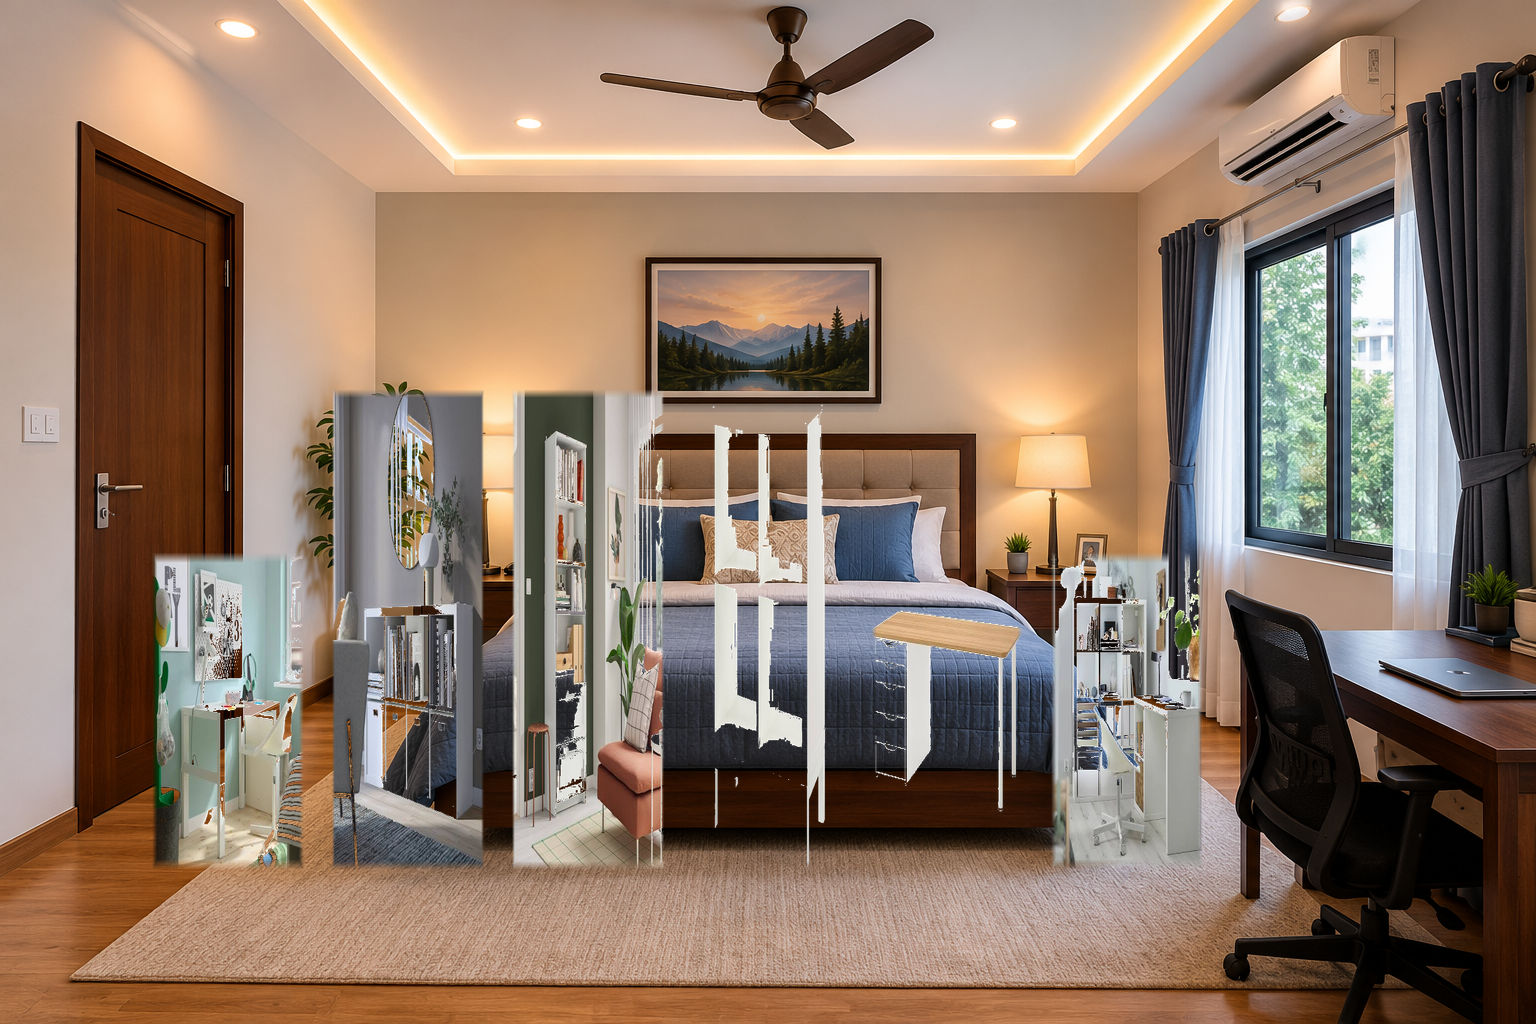
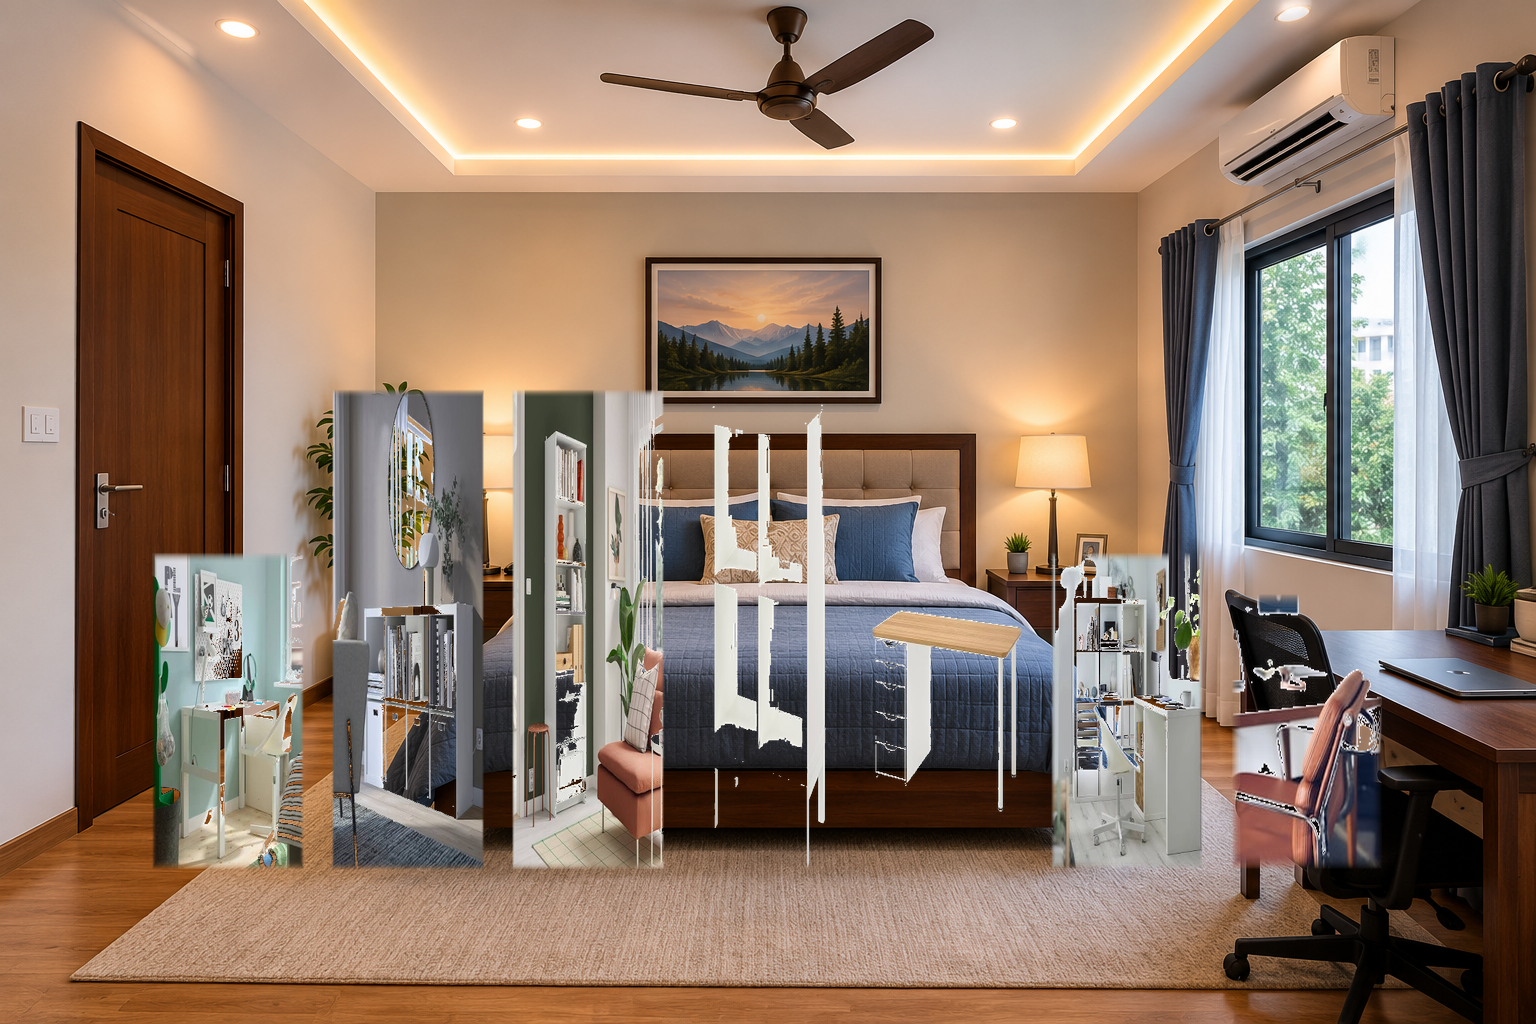
feat: implement hybrid inpaint product compositing and fix direct serpapi redirect fallbacks

diff --git a/agents/commerce_agent.py b/agents/commerce_agent.py
@@ -45,49 +45,57 @@ class CommerceAgent:
         # Mock product catalog for fallback and local searches
         self.mock_catalog = [
             # IKEA (12 products)
-            {"name": "IKEA Micke Desk", "category": "desk", "brand": "IKEA", "price": 6500, "style": "modern", "width_cm": 105, "depth_cm": 50, "quality_score": 0.8},
-            {"name": "IKEA Malm Desk", "category": "desk", "brand": "IKEA", "price": 9999, "style": "modern", "width_cm": 140, "depth_cm": 65, "quality_score": 0.85},
-            {"name": "IKEA Flintan Office Chair", "category": "chair", "brand": "IKEA", "price": 5999, "style": "modern", "width_cm": 70, "depth_cm": 70, "quality_score": 0.75},
-            {"name": "IKEA Markus Ergonomic Chair", "category": "chair", "brand": "IKEA", "price": 14999, "style": "modern", "width_cm": 62, "depth_cm": 60, "quality_score": 0.9},
-            {"name": "IKEA Billy Bookshelf", "category": "bookshelf", "brand": "IKEA", "price": 4500, "style": "modern", "width_cm": 80, "depth_cm": 28, "quality_score": 0.8},
-            {"name": "IKEA Tertial Lamp", "category": "lighting", "brand": "IKEA", "price": 999, "style": "industrial", "width_cm": 15, "depth_cm": 15, "quality_score": 0.75},
-            {"name": "IKEA Kallax Storage Unit", "category": "bookshelf", "brand": "IKEA", "price": 3999, "style": "modern", "width_cm": 77, "depth_cm": 39, "quality_score": 0.8},
-            {"name": "IKEA Lack Side Table", "category": "table", "brand": "IKEA", "price": 899, "style": "modern", "width_cm": 55, "depth_cm": 55, "quality_score": 0.7},
-            {"name": "IKEA Poang Armchair", "category": "chair", "brand": "IKEA", "price": 6999, "style": "scandinavian", "width_cm": 68, "depth_cm": 82, "quality_score": 0.85},
-            {"name": "IKEA Linnmon Work Table", "category": "desk", "brand": "IKEA", "price": 2500, "style": "modern", "width_cm": 100, "depth_cm": 60, "quality_score": 0.75},
-            {"name": "IKEA Alex Drawer Unit", "category": "drawer", "brand": "IKEA", "price": 6500, "style": "modern", "width_cm": 36, "depth_cm": 58, "quality_score": 0.85},
-            {"name": "IKEA Renberget Swivel Chair", "category": "chair", "brand": "IKEA", "price": 4999, "style": "modern", "width_cm": 59, "depth_cm": 65, "quality_score": 0.75},
+            {"name": "IKEA Micke Desk", "category": "desk", "brand": "IKEA", "price": 6500, "style": "modern", "width_cm": 105, "depth_cm": 50, "quality_score": 0.8, "link": "https://www.ikea.com/in/en/p/micke-desk-black-brown-80354274/"},
+            {"name": "IKEA Malm Desk", "category": "desk", "brand": "IKEA", "price": 9999, "style": "modern", "width_cm": 140, "depth_cm": 65, "quality_score": 0.85, "link": "https://www.ikea.com/in/en/p/malm-desk-white-10359824/"},
+            {"name": "IKEA Flintan Office Chair", "category": "chair", "brand": "IKEA", "price": 5999, "style": "modern", "width_cm": 70, "depth_cm": 70, "quality_score": 0.75, "link": "https://www.ikea.com/in/en/p/flintan-office-chair-with-armrests-black-s39434057/"},
+            {"name": "IKEA Markus Ergonomic Chair", "category": "chair", "brand": "IKEA", "price": 14999, "style": "modern", "width_cm": 62, "depth_cm": 60, "quality_score": 0.9, "link": "https://www.ikea.com/in/en/p/markus-office-chair-vissle-dark-grey-50261151/"},
+            {"name": "IKEA Billy Bookshelf", "category": "bookshelf", "brand": "IKEA", "price": 4500, "style": "modern", "width_cm": 80, "depth_cm": 28, "quality_score": 0.8, "link": "https://www.ikea.com/in/en/p/billy-bookcase-white-80351561/"},
+            {"name": "IKEA Tertial Lamp", "category": "lighting", "brand": "IKEA", "price": 999, "style": "industrial", "width_cm": 15, "depth_cm": 15, "quality_score": 0.75, "link": "https://www.ikea.com/in/en/p/tertial-work-lamp-dark-grey-50355721/"},
+            {"name": "IKEA Kallax Storage Unit", "category": "bookshelf", "brand": "IKEA", "price": 3999, "style": "modern", "width_cm": 77, "depth_cm": 39, "quality_score": 0.8, "link": "https://www.ikea.com/in/en/p/kallax-shelving-unit-white-80351882/"},
+            {"name": "IKEA Lack Side Table", "category": "table", "brand": "IKEA", "price": 899, "style": "modern", "width_cm": 55, "depth_cm": 55, "quality_score": 0.7, "link": "https://www.ikea.com/in/en/p/lack-side-table-white-10302064/"},
+            {"name": "IKEA Poang Armchair", "category": "chair", "brand": "IKEA", "price": 6999, "style": "scandinavian", "width_cm": 68, "depth_cm": 82, "quality_score": 0.85, "link": "https://www.ikea.com/in/en/p/poaeng-armchair-glose-black-s99830501/"},
+            {"name": "IKEA Linnmon Work Table", "category": "desk", "brand": "IKEA", "price": 2500, "style": "modern", "width_cm": 100, "depth_cm": 60, "quality_score": 0.75, "link": "https://www.ikea.com/in/en/p/linnmon-table-top-white-60361189/"},
+            {"name": "IKEA Alex Drawer Unit", "category": "drawer", "brand": "IKEA", "price": 6500, "style": "modern", "width_cm": 36, "depth_cm": 58, "quality_score": 0.85, "link": "https://www.ikea.com/in/en/p/alex-drawer-unit-white-40473549/"},
+            {"name": "IKEA Renberget Swivel Chair", "category": "chair", "brand": "IKEA", "price": 4999, "style": "modern", "width_cm": 59, "depth_cm": 65, "quality_score": 0.75, "link": "https://www.ikea.com/in/en/p/renberget-swivel-chair-bomstad-black-20339414/"},
 
             # Urban Ladder (10 products)
-            {"name": "Urban Ladder Study Table", "category": "desk", "brand": "Urban Ladder", "price": 12500, "style": "scandinavian", "width_cm": 120, "depth_cm": 60, "quality_score": 0.9},
-            {"name": "Urban Ladder Engineered Wood Shelf", "category": "bookshelf", "brand": "Urban Ladder", "price": 8999, "style": "modern", "width_cm": 90, "depth_cm": 35, "quality_score": 0.85},
-            {"name": "Urban Ladder Crescent Study Chair", "category": "chair", "brand": "Urban Ladder", "price": 7999, "style": "contemporary", "width_cm": 60, "depth_cm": 60, "quality_score": 0.85},
-            {"name": "Urban Ladder Malabar Bookshelf", "category": "bookshelf", "brand": "Urban Ladder", "price": 14500, "style": "classic", "width_cm": 85, "depth_cm": 30, "quality_score": 0.9},
-            {"name": "Urban Ladder Oki Desk Organizer", "category": "organizer", "brand": "Urban Ladder", "price": 1200, "style": "minimalist", "width_cm": 30, "depth_cm": 20, "quality_score": 0.8},
-            {"name": "Urban Ladder Boston Study Table", "category": "desk", "brand": "Urban Ladder", "price": 18500, "style": "scandinavian", "width_cm": 115, "depth_cm": 60, "quality_score": 0.9},
-            {"name": "Urban Ladder Aeris Desk Chair", "category": "chair", "brand": "Urban Ladder", "price": 11500, "style": "modern", "width_cm": 65, "depth_cm": 65, "quality_score": 0.88},
-            {"name": "Urban Ladder Carson Side Table", "category": "table", "brand": "Urban Ladder", "price": 4500, "style": "contemporary", "width_cm": 45, "depth_cm": 45, "quality_score": 0.82},
-            {"name": "Urban Ladder Flora Table Lamp", "category": "lighting", "brand": "Urban Ladder", "price": 2500, "style": "modern", "width_cm": 22, "depth_cm": 22, "quality_score": 0.85},
-            {"name": "Urban Ladder Stanhope Desk", "category": "desk", "brand": "Urban Ladder", "price": 22000, "style": "scandinavian", "width_cm": 120, "depth_cm": 60, "quality_score": 0.92},
+            {"name": "Urban Ladder Study Table", "category": "desk", "brand": "Urban Ladder", "price": 12500, "style": "scandinavian", "width_cm": 120, "depth_cm": 60, "quality_score": 0.9, "link": "https://www.urbanladder.com/study-tables"},
+            {"name": "Urban Ladder Engineered Wood Shelf", "category": "bookshelf", "brand": "Urban Ladder", "price": 8999, "style": "modern", "width_cm": 90, "depth_cm": 35, "quality_score": 0.85, "link": "https://www.urbanladder.com/bookshelves"},
+            {"name": "Urban Ladder Crescent Study Chair", "category": "chair", "brand": "Urban Ladder", "price": 7999, "style": "contemporary", "width_cm": 60, "depth_cm": 60, "quality_score": 0.85, "link": "https://www.urbanladder.com/study-chairs"},
+            {"name": "Urban Ladder Malabar Bookshelf", "category": "bookshelf", "brand": "Urban Ladder", "price": 14500, "style": "classic", "width_cm": 85, "depth_cm": 30, "quality_score": 0.9, "link": "https://www.urbanladder.com/bookshelves"},
+            {"name": "Urban Ladder Oki Desk Organizer", "category": "organizer", "brand": "Urban Ladder", "price": 1200, "style": "minimalist", "width_cm": 30, "depth_cm": 20, "quality_score": 0.8, "link": "https://www.urbanladder.com/study-table-accessories"},
+            {"name": "Urban Ladder Boston Study Table", "category": "desk", "brand": "Urban Ladder", "price": 18500, "style": "scandinavian", "width_cm": 115, "depth_cm": 60, "quality_score": 0.9, "link": "https://www.urbanladder.com/study-tables"},
+            {"name": "Urban Ladder Aeris Desk Chair", "category": "chair", "brand": "Urban Ladder", "price": 11500, "style": "modern", "width_cm": 65, "depth_cm": 65, "quality_score": 0.88, "link": "https://www.urbanladder.com/study-chairs"},
+            {"name": "Urban Ladder Carson Side Table", "category": "table", "brand": "Urban Ladder", "price": 4500, "style": "contemporary", "width_cm": 45, "depth_cm": 45, "quality_score": 0.82, "link": "https://www.urbanladder.com/side-tables"},
+            {"name": "Urban Ladder Flora Table Lamp", "category": "lighting", "brand": "Urban Ladder", "price": 2500, "style": "modern", "width_cm": 22, "depth_cm": 22, "quality_score": 0.85, "link": "https://www.urbanladder.com/lamps"},
+            {"name": "Urban Ladder Stanhope Desk", "category": "desk", "brand": "Urban Ladder", "price": 22000, "style": "scandinavian", "width_cm": 120, "depth_cm": 60, "quality_score": 0.92, "link": "https://www.urbanladder.com/study-tables"},
 
             # Godrej Interio (10 products)
-            {"name": "Godrej Interio Caliber Desk", "category": "desk", "brand": "Godrej Interio", "price": 8500, "style": "contemporary", "width_cm": 110, "depth_cm": 55, "quality_score": 0.8},
-            {"name": "Godrej Interio Motion Chair", "category": "chair", "brand": "Godrej Interio", "price": 12000, "style": "contemporary", "width_cm": 65, "depth_cm": 65, "quality_score": 0.85},
-            {"name": "Godrej Interio Companion Cabinet", "category": "cabinet", "brand": "Godrej Interio", "price": 9500, "style": "classic", "width_cm": 90, "depth_cm": 45, "quality_score": 0.8},
-            {"name": "Godrej Interio Unwind Chair", "category": "chair", "brand": "Godrej Interio", "price": 4500, "style": "modern", "width_cm": 55, "depth_cm": 55, "quality_score": 0.78},
-            {"name": "Godrej Interio Script Desk", "category": "desk", "brand": "Godrej Interio", "price": 16500, "style": "contemporary", "width_cm": 120, "depth_cm": 60, "quality_score": 0.88},
-            {"name": "Godrej Interio Premier Table", "category": "desk", "brand": "Godrej Interio", "price": 10500, "style": "classic", "width_cm": 115, "depth_cm": 60, "quality_score": 0.82},
-            {"name": "Godrej Interio Slimline Wardrobe", "category": "wardrobe", "brand": "Godrej Interio", "price": 21000, "style": "classic", "width_cm": 90, "depth_cm": 50, "quality_score": 0.85},
-            {"name": "Godrej Interio Versatile Shelf", "category": "bookshelf", "brand": "Godrej Interio", "price": 7500, "style": "modern", "width_cm": 80, "depth_cm": 30, "quality_score": 0.8},
-            {"name": "Godrej Interio Accent Lamp", "category": "lighting", "brand": "Godrej Interio", "price": 3000, "style": "contemporary", "width_cm": 25, "depth_cm": 25, "quality_score": 0.82},
-            {"name": "Godrej Interio Work Desk Combo", "category": "desk", "brand": "Godrej Interio", "price": 19999, "style": "contemporary", "width_cm": 120, "depth_cm": 60, "quality_score": 0.88},
+            {"name": "Godrej Interio Caliber Desk", "category": "desk", "brand": "Godrej Interio", "price": 8500, "style": "contemporary", "width_cm": 110, "depth_cm": 55, "quality_score": 0.8, "link": "https://www.godrejinterio.com/furniture/study-table"},
+            {"name": "Godrej Interio Motion Chair", "category": "chair", "brand": "Godrej Interio", "price": 12000, "style": "contemporary", "width_cm": 65, "depth_cm": 65, "quality_score": 0.85, "link": "https://www.godrejinterio.com/furniture/office-chair"},
+            {"name": "Godrej Interio Companion Cabinet", "category": "cabinet", "brand": "Godrej Interio", "price": 9500, "style": "classic", "width_cm": 90, "depth_cm": 45, "quality_score": 0.8, "link": "https://www.godrejinterio.com/furniture/home-storage"},
+            {"name": "Godrej Interio Unwind Chair", "category": "chair", "brand": "Godrej Interio", "price": 4500, "style": "modern", "width_cm": 55, "depth_cm": 55, "quality_score": 0.78, "link": "https://www.godrejinterio.com/furniture/chairs"},
+            {"name": "Godrej Interio Script Desk", "category": "desk", "brand": "Godrej Interio", "price": 16500, "style": "contemporary", "width_cm": 120, "depth_cm": 60, "quality_score": 0.88, "link": "https://www.godrejinterio.com/furniture/study-table"},
+            {"name": "Godrej Interio Premier Table", "category": "desk", "brand": "Godrej Interio", "price": 10500, "style": "classic", "width_cm": 115, "depth_cm": 60, "quality_score": 0.82, "link": "https://www.godrejinterio.com/furniture/study-table"},
+            {"name": "Godrej Interio Slimline Wardrobe", "category": "wardrobe", "brand": "Godrej Interio", "price": 21000, "style": "classic", "width_cm": 90, "depth_cm": 50, "quality_score": 0.85, "link": "https://www.godrejinterio.com/furniture/wardrobe"},
+            {"name": "Godrej Interio Versatile Shelf", "category": "bookshelf", "brand": "Godrej Interio", "price": 7500, "style": "modern", "width_cm": 80, "depth_cm": 30, "quality_score": 0.8, "link": "https://www.godrejinterio.com/furniture/home-storage"},
+            {"name": "Godrej Interio Accent Lamp", "category": "lighting", "brand": "Godrej Interio", "price": 3000, "style": "contemporary", "width_cm": 25, "depth_cm": 25, "quality_score": 0.82, "link": "https://www.godrejinterio.com/"},
+            {"name": "Godrej Interio Work Desk Combo", "category": "desk", "brand": "Godrej Interio", "price": 19999, "style": "contemporary", "width_cm": 120, "depth_cm": 60, "quality_score": 0.88, "link": "https://www.godrejinterio.com/furniture/study-table"},
 
             # Projectors & Projector Screens (5 products)
             {"name": "Epson EpiqVision Flex Projector", "category": "projector", "brand": "Epson", "price": 27389, "style": "modern", "width_cm": 30, "depth_cm": 30, "quality_score": 0.9, "image": "https://images.unsplash.com/photo-1535016120720-40c646be5580?auto=format&fit=crop&w=150&q=80", "link": "https://www.google.com/search?tbm=shop&q=Epson+EpiqVision+Flex+Projector"},
             {"name": "Vankyo Leisure Mini Projector", "category": "projector", "brand": "Vankyo", "price": 4979, "style": "modern", "width_cm": 20, "depth_cm": 15, "quality_score": 0.85, "image": "https://images.unsplash.com/photo-1535016120720-40c646be5580?auto=format&fit=crop&w=150&q=80", "link": "https://www.google.com/search?tbm=shop&q=Vankyo+Leisure+Mini+Projector"},
             {"name": "Vankyo Staytrue 120 Projector Screen", "category": "projector screen", "brand": "Vankyo", "price": 10789, "style": "modern", "width_cm": 260, "depth_cm": 10, "quality_score": 0.88, "image": "https://images.unsplash.com/photo-1583741893569-07301292b3bc?auto=format&fit=crop&w=150&q=80", "link": "https://www.google.com/search?tbm=shop&q=Vankyo+Staytrue+120+Projector+Screen"},
-            {"name": "IKEA MITTzon Projector Frame", "category": "projector screen", "brand": "IKEA", "price": 26500, "style": "modern", "width_cm": 200, "depth_cm": 80, "quality_score": 0.86, "image": "https://images.unsplash.com/photo-1583741893569-07301292b3bc?auto=format&fit=crop&w=150&q=80", "link": "https://www.google.com/search?tbm=shop&q=IKEA+MITTzon+Projector+Frame"},
-            {"name": "Elite Screens Manual Projector Screen", "category": "projector screen", "brand": "Elite Screens", "price": 8999, "style": "classic", "width_cm": 240, "depth_cm": 12, "quality_score": 0.87, "image": "https://images.unsplash.com/photo-1583741893569-07301292b3bc?auto=format&fit=crop&w=150&q=80", "link": "https://www.google.com/search?tbm=shop&q=Elite+Screens+Manual+Projector+Screen"}
+            {"name": "IKEA MITTzon Projector Frame", "category": "projector screen", "brand": "IKEA", "price": 26500, "style": "modern", "width_cm": 200, "depth_cm": 80, "quality_score": 0.86, "image": "https://images.unsplash.com/photo-1583741893569-07301292b3bc?auto=format&fit=crop&w=150&q=80", "link": "https://www.ikea.com/"},
+            {"name": "Elite Screens Manual Projector Screen", "category": "projector screen", "brand": "Elite Screens", "price": 8999, "style": "classic", "width_cm": 240, "depth_cm": 12, "quality_score": 0.87, "image": "https://images.unsplash.com/photo-1583741893569-07301292b3bc?auto=format&fit=crop&w=150&q=80", "link": "https://www.google.com/search?tbm=shop&q=Elite+Screens+Manual+Projector+Screen"},
+            
+            # Additional Category Mappings & Brand Fallbacks (Beds, Green Soul)
+            {"name": "IKEA Neiden Bed Frame", "category": "bed", "brand": "IKEA", "price": 8999, "style": "modern", "width_cm": 200, "depth_cm": 140, "quality_score": 0.8, "link": "https://www.ikea.com/in/en/p/neiden-bed-frame-pine-80395248/"},
+            {"name": "IKEA Malm Bed Frame", "category": "bed", "brand": "IKEA", "price": 18999, "style": "modern", "width_cm": 210, "depth_cm": 160, "quality_score": 0.88, "link": "https://www.ikea.com/in/en/p/malm-bed-frame-high-w-2-storage-boxes-white-s79175979/"},
+            {"name": "Urban Ladder Single Bed", "category": "bed", "brand": "Urban Ladder", "price": 22000, "style": "contemporary", "width_cm": 200, "depth_cm": 100, "quality_score": 0.86, "link": "https://www.urbanladder.com/beds"},
+            {"name": "Godrej Interio Queen Bed", "category": "bed", "brand": "Godrej Interio", "price": 28000, "style": "classic", "width_cm": 210, "depth_cm": 150, "quality_score": 0.85, "link": "https://www.godrejinterio.com/furniture/beds"},
+            {"name": "Green Soul Ergonomic Chair", "category": "chair", "brand": "Green Soul", "price": 8999, "style": "contemporary", "width_cm": 65, "depth_cm": 65, "quality_score": 0.9, "link": "https://www.greensoul.online/"},
+            {"name": "Green Soul Study Desk", "category": "desk", "brand": "Green Soul", "price": 7500, "style": "modern", "width_cm": 120, "depth_cm": 60, "quality_score": 0.82, "link": "https://www.greensoul.online/"}
         ]
         logger.info("CommerceAgent initialized (Provider: %s)", provider)
 
@@ -255,7 +263,7 @@ class CommerceAgent:
                 url = f"https://serpapi.com/search.json?engine=google_shopping&q={query_encoded}&api_key={api_key}"
                 
                 req = urllib.request.Request(url, headers={'User-Agent': 'Mozilla/5.0'})
-                with urllib.request.urlopen(req, timeout=8) as response:
+                with urllib.request.urlopen(req, timeout=25) as response:
                     data = json.loads(response.read().decode('utf-8'))
                     shopping_results = data.get("shopping_results", [])
                     
@@ -341,7 +349,7 @@ class CommerceAgent:
                             "rating": rating,
                             "reviews": reviews_count,
                             "image": image_url,
-                            "link": extract_direct_link(item.get("link", "")) or f"https://www.google.com/search?tbm=shop&q={urllib.parse.quote(f'{detected_brand} {title}'.strip())}"
+                            "link": extract_direct_link(item.get("link", "")) or item.get("link", "") or f"https://www.google.com/search?tbm=shop&q={urllib.parse.quote(f'{detected_brand} {title}'.strip())}"
                         })
             except Exception as e:
                 logger.error("SerpAPI query failed for '%s': %s", query, str(e))

diff --git a/agents/reconstruction_agent.py b/agents/reconstruction_agent.py
@@ -350,7 +350,7 @@ class ReconstructionAgent:
                                 
                                 # Paste product image directly onto the base image
                                 base_img.paste(product_img_resized, (coords[0], coords[1]), product_img_resized)
-                                inpaint_targets.append((coords, item))
+                                inpaint_targets.append((coords, item, product_img))
                             else:
                                 # Fallback: draw a very subtle clean overlay outline only
                                 pass
@@ -363,14 +363,14 @@ class ReconstructionAgent:
                             try:
                                 # Build prompt describing the products to place
                                 prompt_parts = []
-                                for _, it in inpaint_targets:
+                                for _, it, _ in inpaint_targets:
                                     prompt_parts.append(f"a {it.get('style', 'modern')} {it.get('brand', '')} {it.get('name', 'furniture')}")
                                 inpaint_prompt = "photorealistic room interior containing " + ", ".join(prompt_parts) + ", matching shadows and studio lighting, high resolution"
                                 
                                 # Build mask image (L mode, black)
                                 mask_img = Image.new("L", base_img.size, 0)
                                 mask_draw = ImageDraw.Draw(mask_img)
-                                for c, _ in inpaint_targets:
+                                for c, _, _ in inpaint_targets:
                                     pad = 12
                                     mask_draw.rectangle(
                                         (c[0] - pad, c[1] - pad, c[2] + pad, c[3] + pad),
@@ -397,7 +397,7 @@ class ReconstructionAgent:
                                     data = {
                                         "prompt": inpaint_prompt,
                                         "num_inference_steps": 25,
-                                        "strength": 0.7
+                                        "strength": 0.45
                                     }
                                     response = requests.post(
                                         "https://api.deepinfra.com/v1/inference/stabilityai/stable-diffusion-2-inpainting",
@@ -439,7 +439,7 @@ class ReconstructionAgent:
                                         image=init_rgb,
                                         mask_image=mask_l,
                                         num_inference_steps=20,
-                                        strength=0.7,
+                                        strength=0.45,
                                         guidance_scale=7.5
                                     ).images[0]
                                     
@@ -447,6 +447,15 @@ class ReconstructionAgent:
                                     logger.info("Successfully completed local Hugging Face GPU inpainting!")
                             except Exception as inpaint_err:
                                 logger.warning("Inpainting failed: %s. Using high-fidelity feathered overlays.", str(inpaint_err))
+                                
+                            # Re-paste the high-fidelity transparent product cutouts on top of the inpainted result
+                            # to guarantee 100% sharpness and preserve original product details perfectly!
+                            for c, _, p_img in inpaint_targets:
+                                if p_img:
+                                    box_w = c[2] - c[0]
+                                    box_h = c[3] - c[1]
+                                    p_img_resized = p_img.resize((box_w, box_h), Image.Resampling.LANCZOS)
+                                    base_img.paste(p_img_resized, (c[0], c[1]), p_img_resized)
 
                         # D. Convert base_img to RGB and save cleanly (completely realistic photo output)
                         composite = base_img.convert("RGB")
